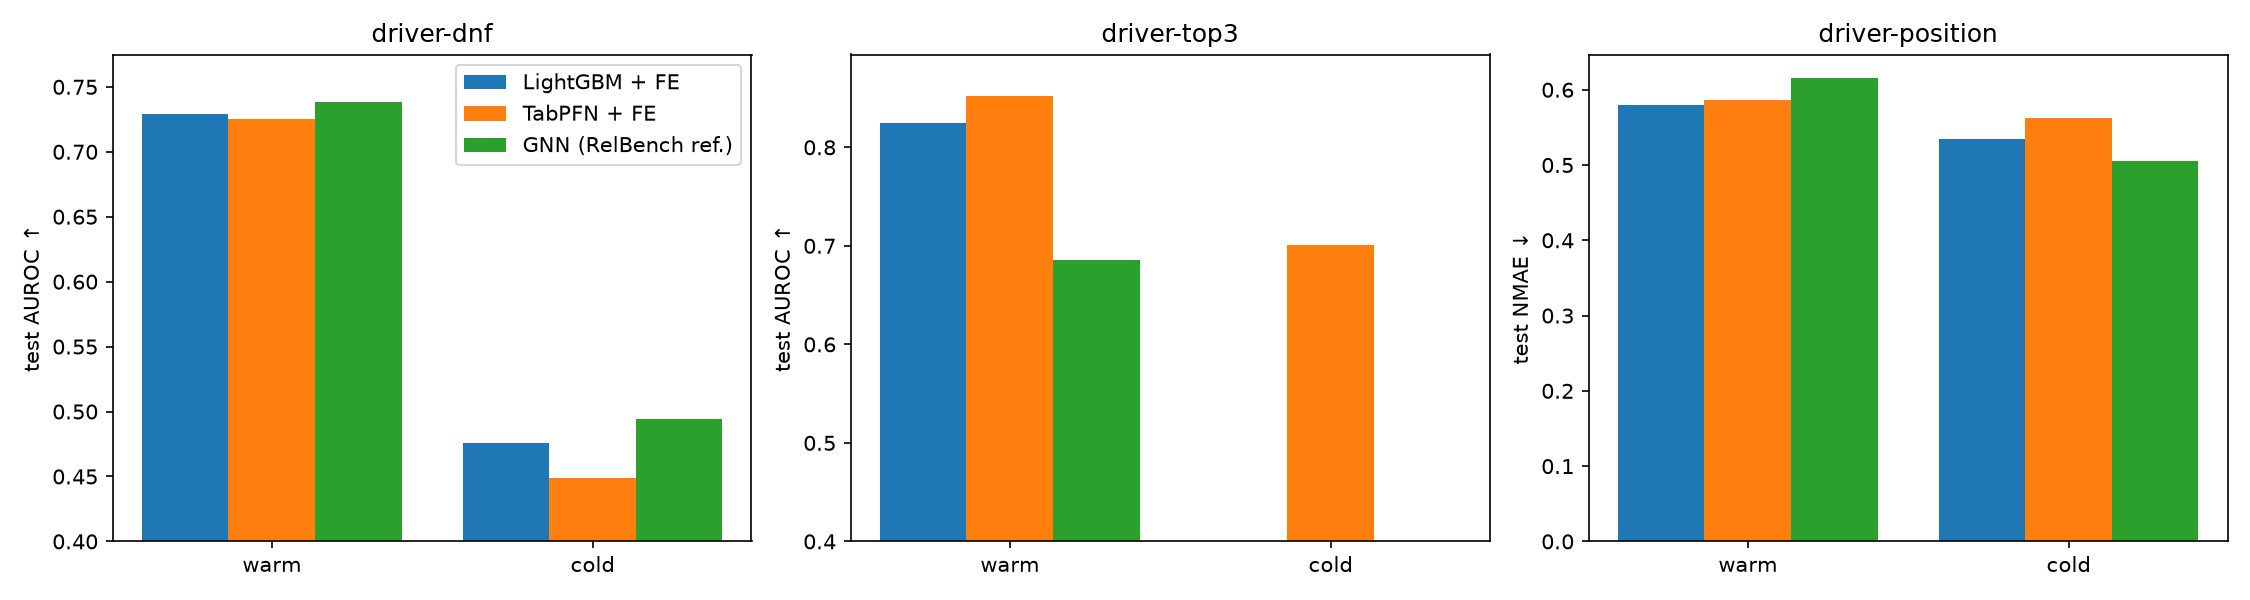
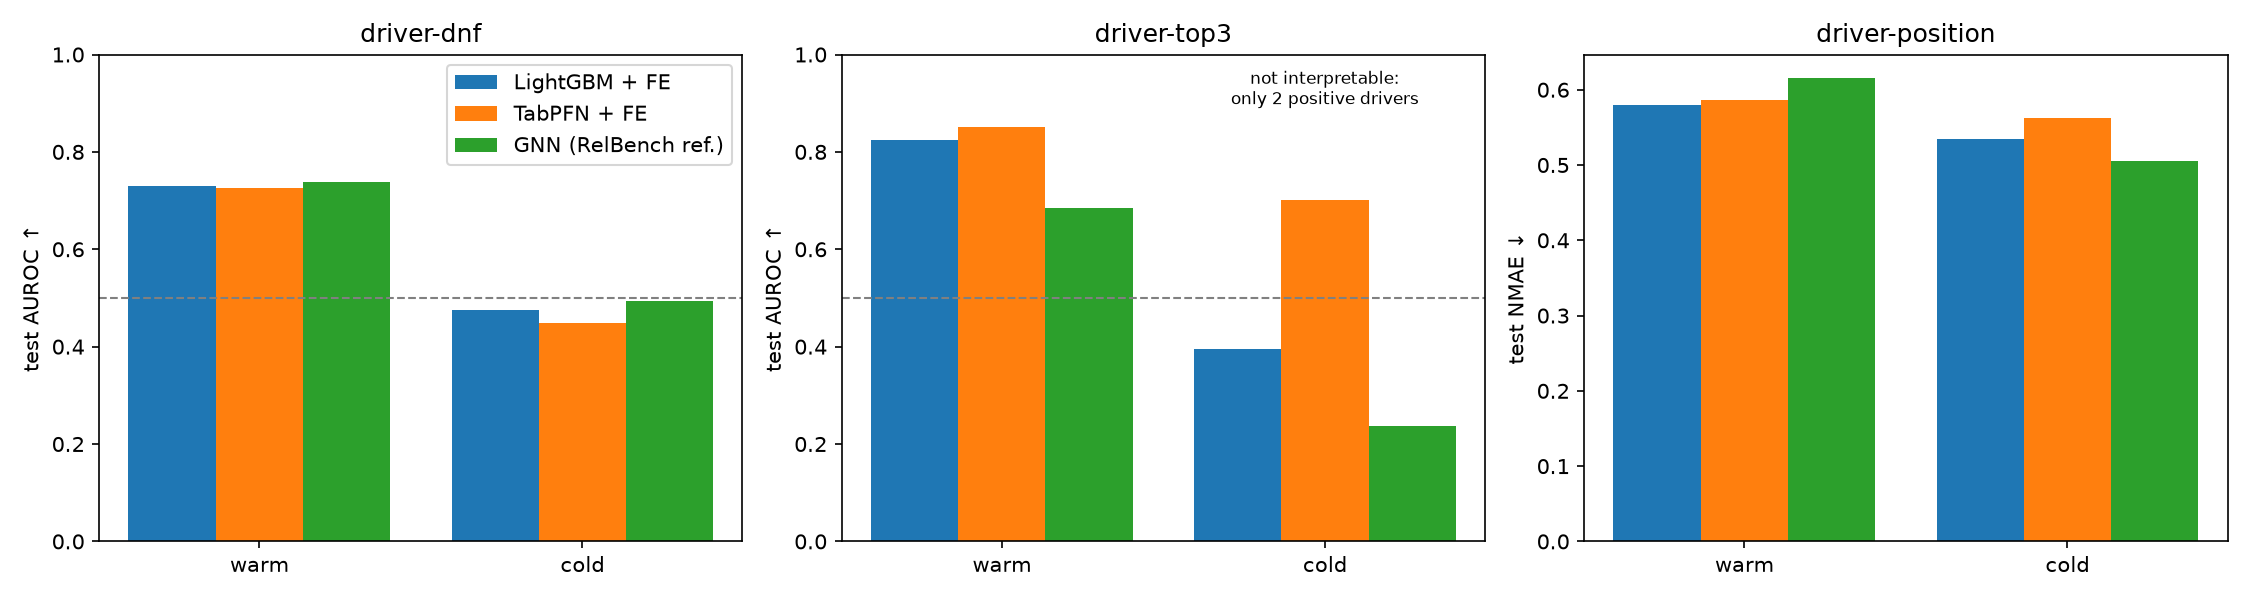
README and readable warm/cold figure

diff --git a/scripts/analyze.py b/scripts/analyze.py
@@ -60,6 +60,7 @@ show("Cost (train/infer: mean per seed; infer = val + test; tuning: once per tas
 
 # ---------------------------------------------------------------- 2. per task: test set, warm/cold, bootstrap
 composition, staleness, subsets_scores, boots = [], [], [], []
+cold_pos_drivers = {}  # binary tasks: drivers with a positive among cold rows
 for task_name in tasks:
     task, db, tables = load(task_name)
     metric = task.metrics[0]
@@ -77,6 +78,8 @@ for task_name in tasks:
     every = np.arange(len(y))
     subsets = {"all": every, "warm": every[~cold], "cold": every[cold]}
     pos = y == 1
+    if higher:
+        cold_pos_drivers[task_name] = len(np.unique(ent[pos & cold]))
     composition.append({
         "task": task_name, "rows": len(y), "drivers": len(np.unique(ent)),
         "cold drivers": len(np.unique(ent[cold])), "cold rows": f"{cold.mean():.0%}",
@@ -144,7 +147,12 @@ for ax, task_name in zip(np.atleast_1d(axes), tasks):
     metric_name = runs[runs.task == task_name].metric.iloc[0]
     ax.set_xticks(x, ["warm", "cold"])
     ax.set_ylabel(f"test {arrow.get(metric_name, metric_name)}")
-    ax.set_ylim(0.4 if metric_name == "roc_auc" else 0, None)
+    if metric_name == "roc_auc":
+        ax.set_ylim(0, 1)
+        ax.axhline(0.5, ls="--", lw=1, color="grey")
+        if cold_pos_drivers.get(task_name, 99) < 5:
+            ax.text(1, 0.97, f"not interpretable:\nonly {cold_pos_drivers[task_name]} positive drivers",
+                    ha="center", va="top", fontsize=8)
     ax.set_title(task_name)
 np.atleast_1d(axes)[0].legend()
 fig.tight_layout()

diff --git a/README.md b/README.md
@@ -1,5 +1,173 @@
-# rel-f1-bench
+# rel-f1-bench: feature engineering vs relational deep learning on RelBench rel-f1
 
-Feature engineering vs relational deep learning vs foundation models on RelBench `rel-f1`.
+**Question.** On a temporal relational database, what does relational deep learning actually bring over good feature engineering, and at what cost?
 
-Work in progress.
+I compare three approaches on the three driver tasks of [RelBench](https://relbench.stanford.edu) `rel-f1`, under exactly the same protocol:
+
+- **LightGBM** on hand-crafted temporal features (SQL joins and aggregates over the driver's past),
+- **TabPFN**, a tabular foundation model, on the same features, with no tuning,
+- the **reference RelBench GNN** (heterogeneous GraphSAGE on the raw database).
+
+## TL;DR
+
+- **Feature engineering matches or beats the reference GNN.** On `driver-top3`, TabPFN reaches 0.880 AUROC and LightGBM 0.854, against 0.763 for the GNN. On `driver-dnf` and `driver-position`, the three approaches are on par.
+- **TabPFN is the most stable model and needs no tuning**, but its inference is three to four orders of magnitude slower than LightGBM (6 to 73 s against a few milliseconds).
+- **The official test set cannot rank these methods.** No difference between them is statistically significant: `driver-top3` has only 14 drivers with a positive label, 28 to 43 % of test rows are drivers with no history, and test-time information is almost two years old (vs 11 days in validation).
+
+## Setup
+
+`rel-f1` is the Formula 1 database (1950 to 2009 here): 9 tables such as `drivers`, `results`, `qualifying`, `standings` and `constructors`. Each task predicts something about a driver at a given date:
+
+| Task | Target | Metric |
+|---|---|---|
+| `driver-dnf` | will the driver fail to finish a race in the next month? | AUROC ↑ |
+| `driver-top3` | will the driver qualify in the top 3 in the next month? | AUROC ↑ |
+| `driver-position` | average finishing position over the next two months | NMAE ↓ (MAE divided by the train std, 7.026) |
+
+Official temporal splits: train before 2005, validation 2005 to 2009, test from 2010. At test time the database stops in November 2009.
+
+## Methods
+
+| | Input | Training | Selection on validation |
+|---|---|---|---|
+| **LightGBM + FE** | 34 temporal features: career and recent form (last 5 and 10 races), qualifying history, championship standing, strength of the last team | 50 Optuna trials | hyperparameters and early stopping |
+| **TabPFN + FE** | same 34 features | none: the train table is the in-context set | none (validation never used) |
+| **GNN** | raw database as a graph (rows = nodes, foreign keys = edges) | official RelBench example (2 layers, 128 channels, 10 epochs) | best epoch |
+
+**Protocol, identical for every method:**
+
+- **No leakage.** Every feature is computed with a strict per-row cutoff (`date < t` on every join). An automated test (`tests/test_leakage.py`) recomputes features on a database truncated at each row's own timestamp and checks they are identical.
+- **Official evaluation.** Test predictions are scored through RelBench's leaderboard path (`write_prediction_table` then `evaluate_task`).
+- **10 seeds** per method, and a **paired driver-level bootstrap** (1,000 resamples): all methods are scored on the same resampled drivers, because rows of one driver are strongly correlated.
+- **No choice made on test scores.** The GNN uses the official config, TabPFN its defaults.
+
+## Results
+
+### Main table (test, mean ± std over 10 seeds)
+
+| Task | LightGBM + FE | TabPFN + FE | GNN (reproduced) | GNN (published) |
+|---|---|---|---|---|
+| `driver-dnf` (AUROC ↑) | 0.721 ± 0.015 | 0.720 ± 0.003 | **0.729 ± 0.019** | 0.726 |
+| `driver-top3` (AUROC ↑) | 0.854 ± 0.008 | **0.880 ± 0.002** | 0.763 ± 0.025 | 0.755 |
+| `driver-position` (NMAE ↓) | **0.560 ± 0.002** | 0.576 ± 0.001 | 0.568 ± 0.021 | 0.573 |
+
+The reproduced GNN is within one standard deviation of the published scores on all three tasks.
+
+### Are the differences significant?
+
+Paired bootstrap on test, difference with LightGBM (95 % CI):
+
+| Task | TabPFN − LightGBM | GNN − LightGBM |
+|---|---|---|
+| `driver-dnf` | −0.001 [−0.023, +0.019] | +0.009 [−0.044, +0.069] |
+| `driver-top3` | +0.027 [−0.011, +0.073] | −0.077 [−0.170, +0.044] |
+| `driver-position` | +0.016 [−0.005, +0.038] | +0.008 [−0.039, +0.059] |
+
+Every interval contains 0. (For `driver-position` lower is better, so a positive difference means worse than LightGBM.)
+
+The only significant effect in the whole study is an ablation: adding `days_since_last_race` to the LightGBM features **hurts** `driver-dnf` (−0.017 [−0.039, −0.002]). This feature has a median of 12 days in train but 661 days in test, so the model extrapolates.
+
+### Cost
+
+![Test score against inference time](results/figures/cost_vs_performance.png)
+
+| | Training (per seed) | Tuning (once) | Inference (val + test) | Peak GPU memory | Parameters |
+|---|---|---|---|---|---|
+| LightGBM + FE | 0.04 – 0.28 s | 3 – 14 s | 2 – 5 ms | CPU only | — |
+| TabPFN + FE | 0.3 – 0.5 s | — | 6 s (top3) – 71 s (position) – 73 s (dnf) | 3.6 – 6.2 GB | pretrained |
+| GNN | 5 – 21 s | — | 0.2 – 0.3 s | 2.3 – 3.3 GB | 5.1 M |
+
+TabPFN moves the cost of learning to inference: it grows with the size of the context (1,353 train rows for top3, 7,453 for position, 11,411 for dnf). All runs on a single RTX 4070 (12 GB).
+
+### The test set
+
+| Task | Rows | Drivers | Cold drivers | Cold rows | Drivers with a positive (warm / cold) |
+|---|---|---|---|---|---|
+| `driver-dnf` | 702 | 42 | 17 | 28 % | 42 (25 / 17) |
+| `driver-top3` | 726 | 42 | 17 | 28 % | **14 (12 / 2)** |
+| `driver-position` | 760 | 56 | 31 | 43 % | — |
+
+*Warm* drivers raced before the test cutoff; *cold* drivers debut after it, so they have no history at all. The median time since a driver's last known race is 11 to 15 days in train and validation, but **661 days** (dnf, top3) and **1,043 days** (position) in test.
+
+![Test score on warm and cold drivers](results/figures/warm_vs_cold.png)
+
+On warm drivers, the top3 gap is larger: 0.852 (TabPFN) and 0.825 (LightGBM) against 0.686 (GNN). On cold drivers, every method is close to chance on dnf, and the GNN is the best on position (0.505 vs 0.535 for LightGBM).
+
+### GNN ablations (test)
+
+| Variant | dnf | top3 | position | position (val) |
+|---|---|---|---|---|
+| reference (10 epochs, uniform neighbour sampling) | 0.729 | 0.763 | 0.568 | 0.457 |
+| 20 epochs | 0.739 | 0.784 | 0.598 | 0.446 |
+| 20 epochs + most recent neighbours | 0.719 | 0.765 | 0.620 | 0.446 |
+
+None of these variants closes the gap with feature engineering on top3.
+
+## Analysis
+
+Part of the result was expected: TabPFN is strongest when training data is scarce (1,353 rows for top3). But it goes against RelBench's headline message that relational deep learning outperforms tabular approaches. Several causes, beyond test-set size, may explain it:
+
+1. **The published tabular baseline is weak.** RelBench's LightGBM only uses the columns of the driver table, without joins, and reports 0.739 on top3. With multi-table temporal aggregates, LightGBM reaches 0.854. The gain comes from the features, not from the model.
+2. **The signal is mostly autoregressive.** Predicting a top-3 qualification mostly means looking at the driver's recent qualifications. The features encode this label history directly, while the GNN, which never sees past labels, has to rebuild it from raw rows. Sampling the most recent neighbours instead of uniform ones does not help (0.765 vs 0.763 on top3), so diluted recent history is not the explanation.
+3. **The schema is small and driver-centred.** Useful information sits one or two hops from the driver, which leaves little deep relational structure that a GNN could exploit better than a join.
+4. **The GNN is oversized for the data.** 5.1 M parameters for about 1,400 training rows on top3 explain its large variance across seeds (std 0.025), whereas TabPFN's pretrained prior keeps it stable (std 0.002).
+5. **The test set is shifted in ways validation does not show.** Information is about two years old, a gap never seen in training, which puts the GNN's relative-time encoding out of distribution; and 28 to 43 % of rows have no history, hence no neighbours in the graph. Validation can mislead: on position, training the GNN for 20 epochs improves validation (0.457 → 0.446) but degrades test (0.568 → 0.598), entirely through cold drivers (0.505 → 0.579, warm drivers unchanged at 0.61). This effect is specific to position: on dnf and top3, 20 epochs also improves test.
+
+A last, untested point: RelBench's automatic column typing treats the race status code, which precisely defines a DNF, as numerical. This may handicap the GNN on `driver-dnf`.
+
+These are hypotheses, not conclusions. What this study does **not** show: that feature engineering beats GNNs in general (better architectures such as RelGNN report 0.857 on top3), that TabPFN is the best model (its lead on top3 is not significant), or under which conditions relational models win.
+
+## Limitations and future work
+
+- **Small test set**: one temporal split, 42 to 56 drivers. A rolling-origin backtest would give much more statistical power and isolate the effect of stale information.
+- **No GNN tuning** beyond two ablations: the reference config is used on purpose, as published.
+- **Past labels as GNN input**, to test hypothesis 2 directly.
+- **Relational foundation models** (e.g. a Relational Transformer) in zero-shot on the same protocol.
+- **Faster TabPFN inference**, for example by caching the encoded context across predictions.
+
+## Reproduce
+
+Requirements: Linux (or WSL2), an NVIDIA GPU with CUDA 12.8 drivers, [uv](https://docs.astral.sh/uv/), and a TabPFN token (the weights are under a non-commercial license).
+
+```bash
+git clone https://github.com/MaelKri/rel-f1-bench.git && cd rel-f1-bench
+uv sync                                   # Python 3.12, PyTorch 2.9 (cu128), pinned in uv.lock
+printf "TABPFN_TOKEN=<your token>\nTABPFN_NO_BROWSER=1\n" > .env
+
+uv run pytest                             # leakage test (downloads rel-f1 on first run)
+
+uv run python scripts/run.py configs/lgbm.yaml
+uv run python scripts/run.py configs/lgbm_staleness.yaml
+uv run --env-file .env python scripts/run.py configs/tabpfn.yaml
+uv run python scripts/run.py configs/gnn.yaml
+uv run python scripts/run.py configs/gnn_e20.yaml
+uv run python scripts/run.py configs/gnn_e20_last.yaml
+
+uv run python scripts/analyze.py          # tables in results/summary.txt, figures in results/figures/
+```
+
+Each run appends one line to `results/runs.jsonl` (scores, confidence interval, cost, config, git commit). The runs behind this README are committed there, and `results/summary.txt` holds every number quoted above.
+
+LightGBM reproduces exactly, and TabPFN up to GPU rounding. GNN runs are not bit-reproducible on GPU (non-deterministic scatter operations), so expect the GNN means to move within seed noise.
+
+## Repository layout
+
+```
+configs/                one YAML per experiment (method, seeds, hyperparameters)
+src/rel_f1_bench/
+  data.py               dataset and task loading
+  features.py           SQL features with a strict per-row cutoff, and the leakage check
+  models/               lgbm.py, tabpfn.py, gnn.py, relbench_nn.py (RelBench model code)
+  evaluation.py         shared evaluation: val, official test, cost, results/runs.jsonl
+  stats.py              driver-level bootstraps, warm/cold split
+scripts/run.py          runs one config: every task and seed
+scripts/analyze.py      tables and figures from results/runs.jsonl
+tests/test_leakage.py   leakage test on the real data
+```
+
+## Acknowledgements and licenses
+
+- Code in this repository: MIT.
+- [RelBench](https://github.com/snap-stanford/relbench) (Apache-2.0): dataset, tasks, evaluation, and the GNN example code adapted in `src/rel_f1_bench/models/relbench_nn.py` and `gnn.py` (commit `07ec0ce`).
+- [TabPFN](https://github.com/PriorLabs/TabPFN) 9.2.0 with the TabPFN-3.5 weights, under Prior Labs' non-commercial license.
+- The `rel-f1` data is distributed by RelBench under CC-BY-4.0.
